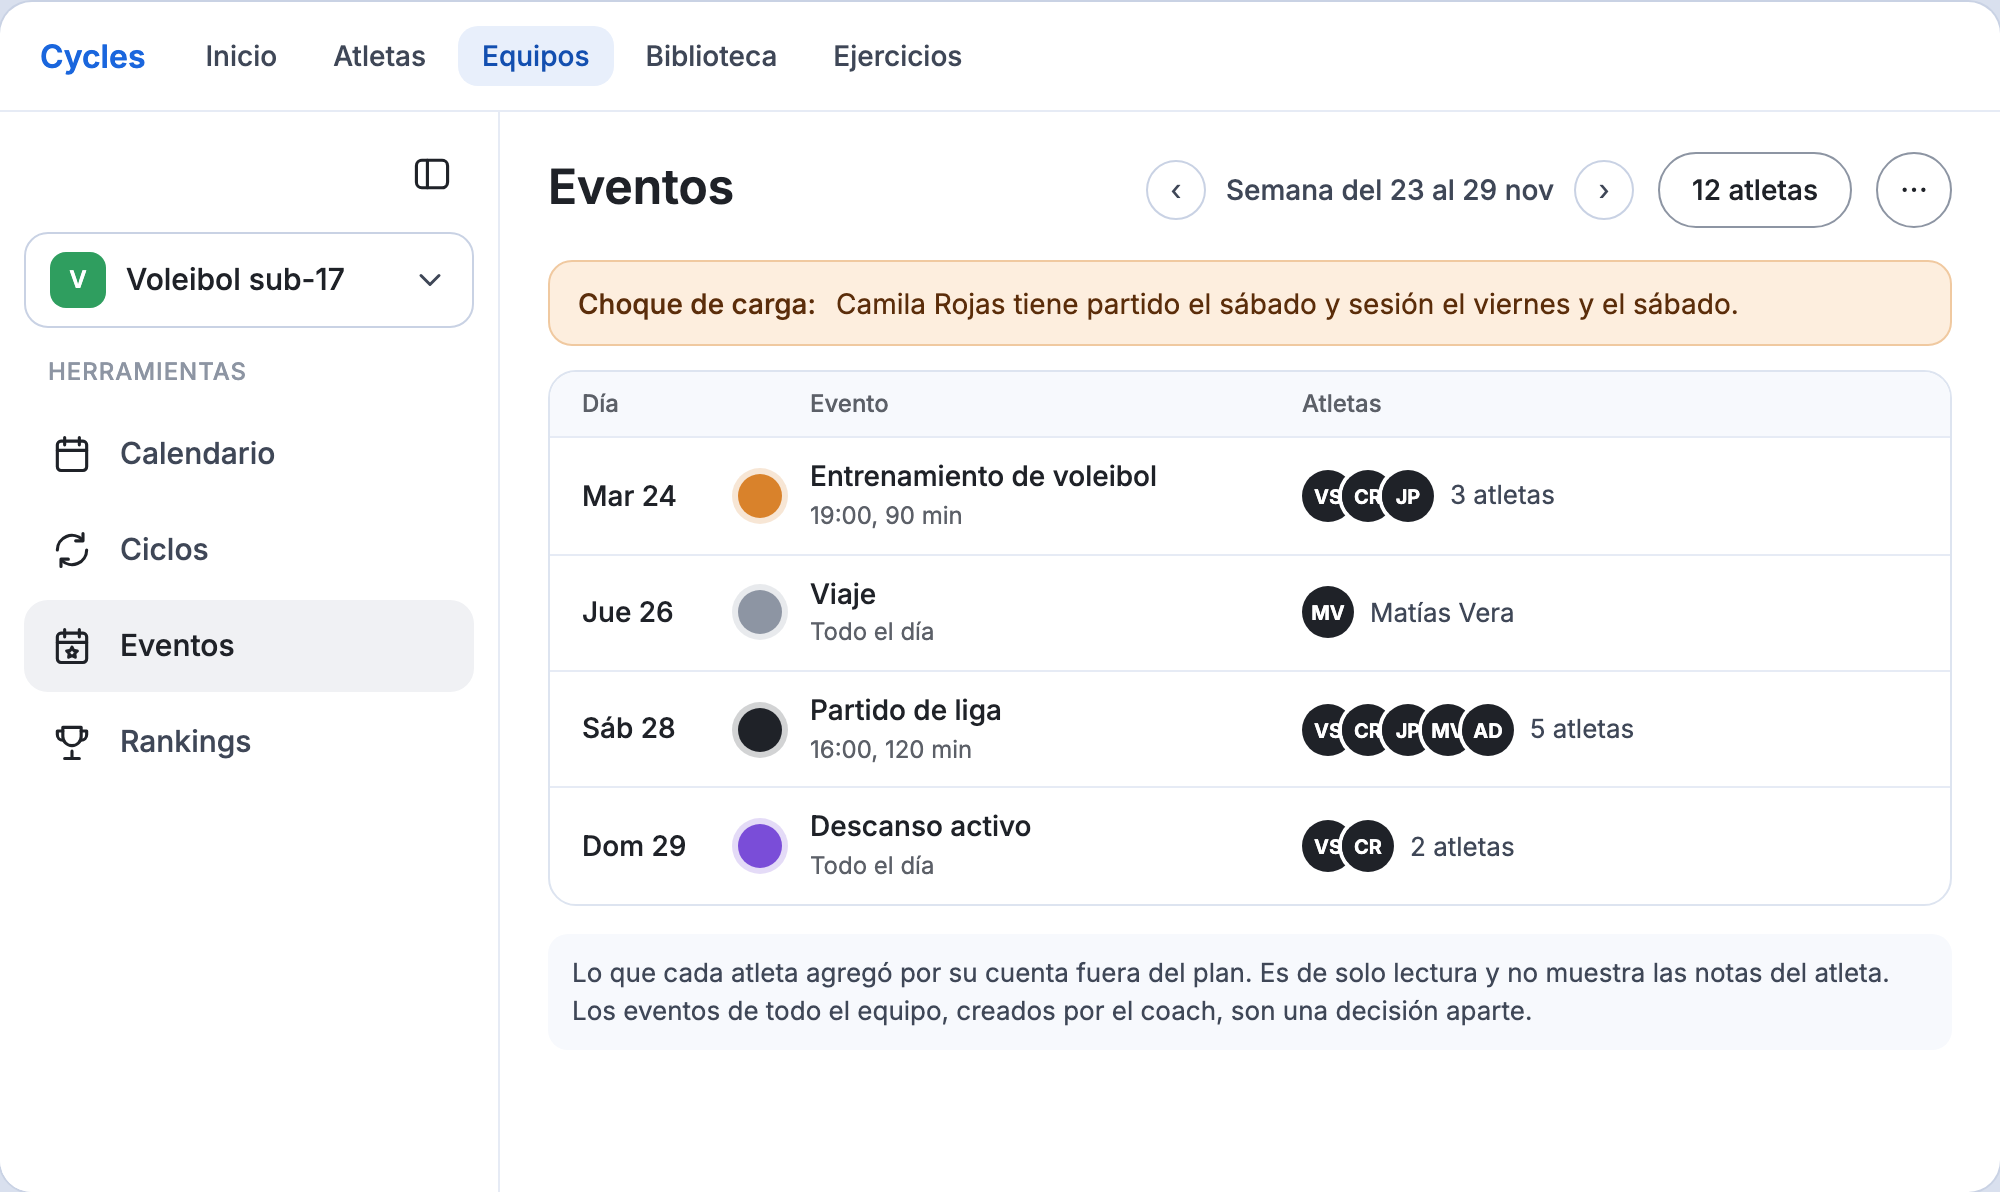
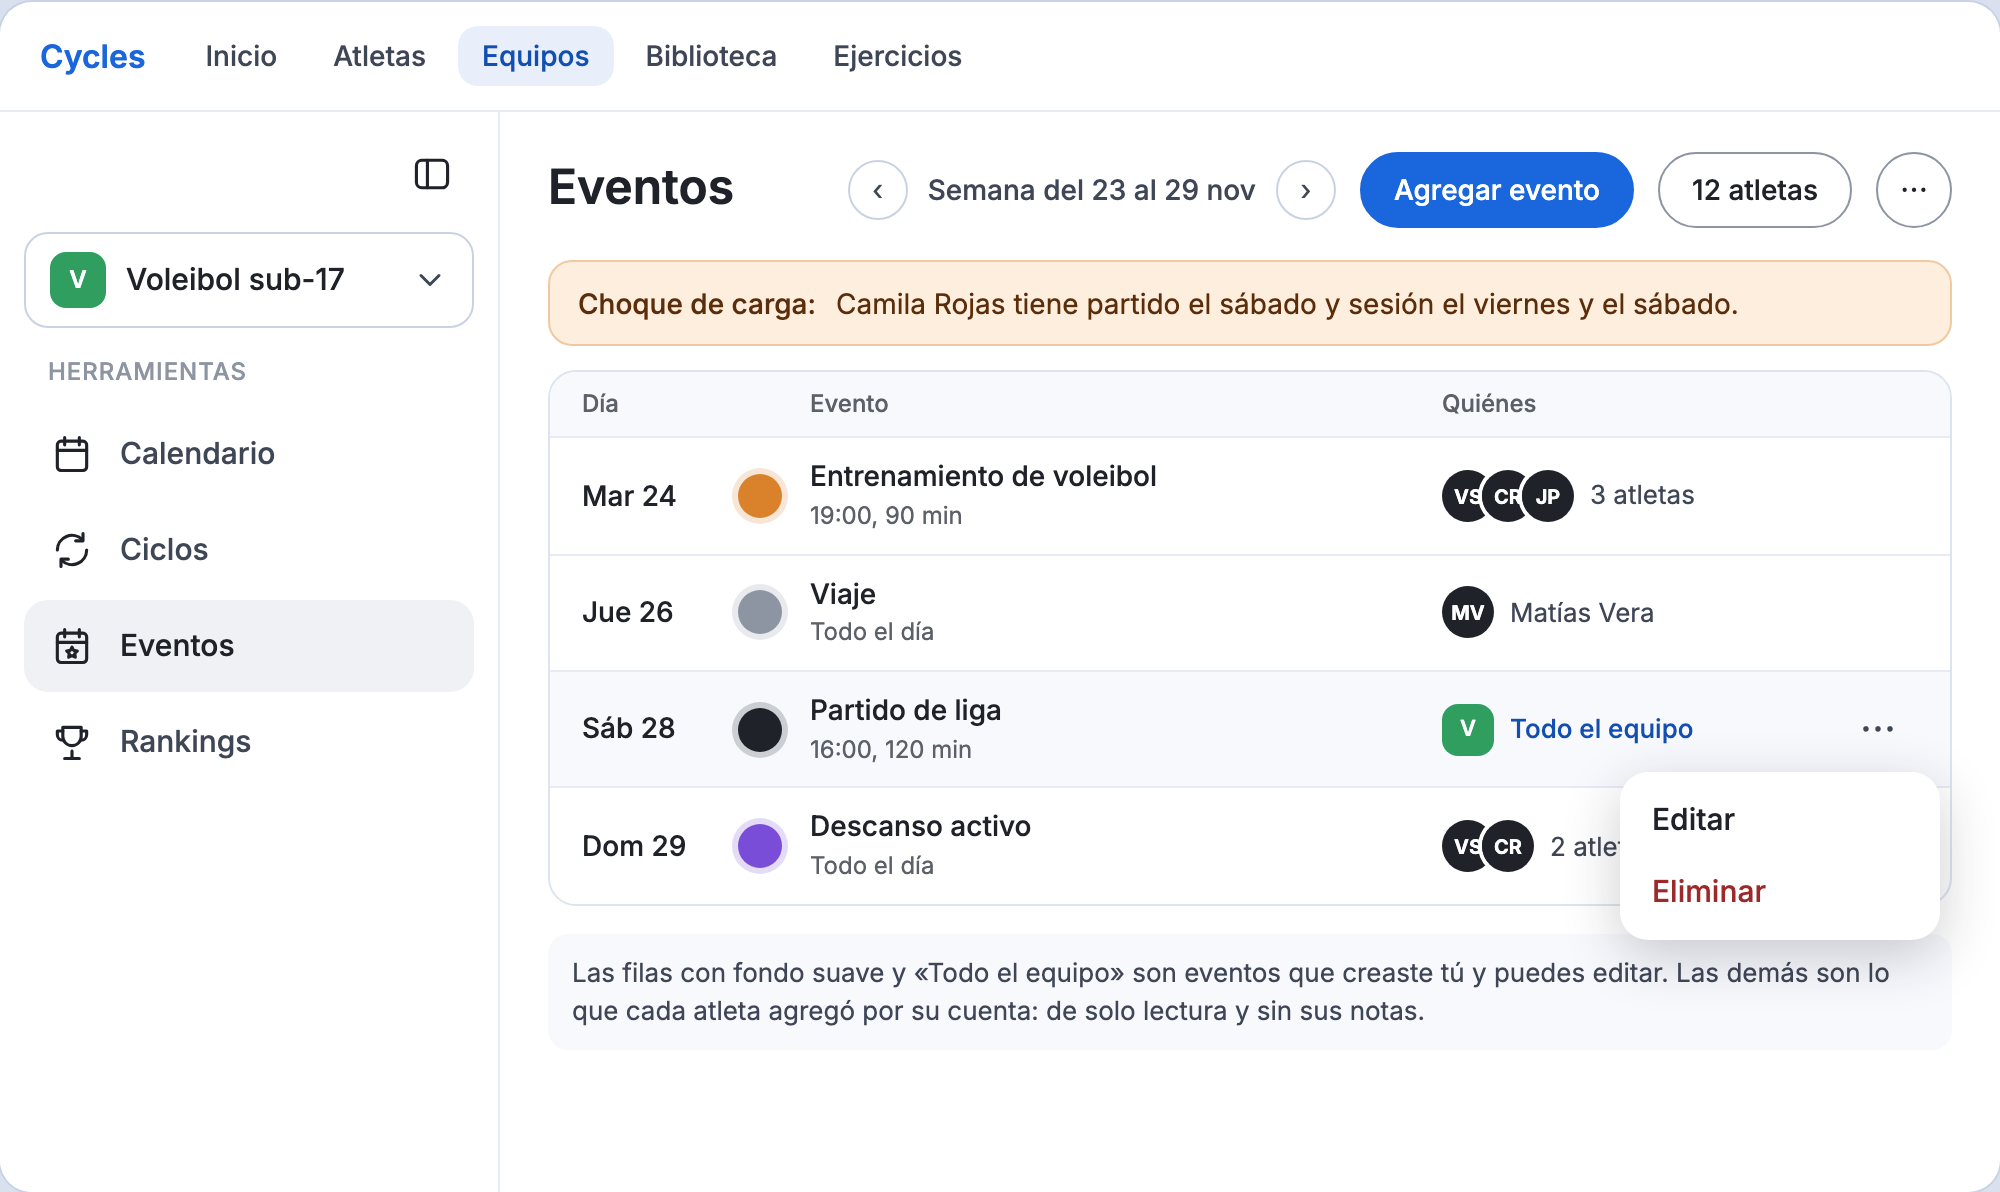
Equipos: eventos que el coach crea para todo el equipo, con modelo TeamEvent (CYC-316)

diff --git a/docs/diseno/equipos-sidebar/propuestas.html b/docs/diseno/equipos-sidebar/propuestas.html
@@ -514,18 +514,42 @@ function ciclos(){
  ${r(ATH[0],'Fuerza base','2 de 6',33)}${r(ATH[1],'Fuerza base','2 de 6',33)}${r(ATH[2],'Fuerza base','2 de 6',30)}${r(ATH[3],'Sin ciclo','—',null)}${r(ATH[4],'Invitación pendiente','—',null)}</div>
  <div class="t3note">El ciclo vigente de cada atleta del equipo. Al tocar una fila se abre el ciclo en la pizarra del atleta.</div></div>`;
 }
-function eventos(){
- const pl=(c)=>`<span style="display:inline-block;width:22px;height:22px;border-radius:50%;background:${c};box-shadow:0 0 0 3px ${c}33;flex:none"></span>`;
- const stk=(n,s=0)=>`<div style="display:flex">${ATH.slice(s,s+n).map((a,i)=>`<div style="margin-left:${i?'-6px':'0'};box-shadow:0 0 0 2px #fff;border-radius:50%">${AVb(a[0]).replace('class="av"','class="av" style="width:26px;height:26px;font-size:10px"')}</div>`).join('')}</div>`;
- const ev=(d,c,t,h,n,who,s=0)=>`<div class="t3r" style="grid-template-columns:70px 28px minmax(160px,1fr) 150px 150px"><span style="font:500 14px/1.2 Inter">${d}</span>${pl(c)}<div><div style="font:500 14px/1.2 Inter">${t}</div><div style="font:400 12px/1.3 Inter;color:#5c6068;margin-top:3px">${h}</div></div><div style="display:flex;align-items:center;gap:8px">${stk(n,s)}<span style="font:400 13px/1 Inter;color:#3f4757;white-space:nowrap">${who}</span></div><span></span></div>`;
- return `<div class="t3mn">${head('Eventos',`<div class="t3wk"><b>‹</b>Semana del 23 al 29 nov<b>›</b></div>`)}
+const EVC={part:'#1f2228',ent:'#d9822b',via:'#8d95a3',des:'#7a4dd8',otro:'#4f7fd1'};
+const pl=(c)=>`<span style="display:inline-block;width:22px;height:22px;border-radius:50%;background:${c};box-shadow:0 0 0 3px ${c}33;flex:none"></span>`;
+const stk=(n,s=0)=>`<div style="display:flex">${ATH.slice(s,s+n).map((a,i)=>`<div style="margin-left:${i?'-6px':'0'};box-shadow:0 0 0 2px #fff;border-radius:50%">${AVb(a[0]).replace('class="av"','class="av" style="width:26px;height:26px;font-size:10px"')}</div>`).join('')}</div>`;
+const EVG='grid-template-columns:70px 28px minmax(160px,1fr) 190px 40px';
+const evA=(d,c,t,h,n,who,s=0)=>`<div class="t3r" style="${EVG}"><span style="font:500 14px/1.2 Inter">${d}</span>${pl(c)}<div><div style="font:500 14px/1.2 Inter">${t}</div><div style="font:400 12px/1.3 Inter;color:#5c6068;margin-top:3px">${h}</div></div><div style="display:flex;align-items:center;gap:8px">${stk(n,s)}<span style="font:400 13px/1 Inter;color:#3f4757;white-space:nowrap">${who}</span></div><span></span></div>`;
+const evT=(d,c,t,h,menu)=>`<div class="t3r" style="${EVG};background:#f7f9fd;position:relative"><span style="font:500 14px/1.2 Inter">${d}</span>${pl(c)}<div><div style="font:500 14px/1.2 Inter">${t}</div><div style="font:400 12px/1.3 Inter;color:#5c6068;margin-top:3px">${h}</div></div><div style="display:flex;align-items:center;gap:8px"><i style="width:26px;height:26px;border-radius:8px;display:grid;place-items:center;color:#fff;font:600 11px/1 Inter;font-style:normal;background:#2f9e5f">V</i><span style="font:500 13px/1 Inter;color:#134fb0;white-space:nowrap">Todo el equipo</span></div><span style="text-align:center;font:500 18px/1 Inter;color:#3f4757">⋯</span>${menu||''}</div>`;
+const evMenu=`<div class="t3dd" style="left:auto;right:30px;top:330px;width:160px"><div class="o"><span>Editar</span></div><div class="o" style="color:#9d2a2a"><span>Eliminar</span></div></div>`;
+function eventos(menu){
+ return `<div class="t3mn">${head('Eventos',`<div class="t3wk"><b>‹</b>Semana del 23 al 29 nov<b>›</b></div><span class="t3btn pr">Agregar evento</span>`)}
  <div class="alr" style="background:#fdeede;border:1px solid #f0c9a0;color:#5b2d0a;border-radius:12px;padding:11px 14px;font:400 14px/1.4 Inter;margin-bottom:12px;display:flex;gap:10px;align-items:center"><b style="font-weight:500">Choque de carga:</b> Camila Rojas tiene partido el sábado y sesión el viernes y el sábado.</div>
- <div class="t3tb"><div class="t3r h" style="grid-template-columns:70px 28px minmax(160px,1fr) 150px 150px"><span>Día</span><span></span><span>Evento</span><span>Atletas</span><span></span></div>
- ${ev('Mar 24','#d9822b','Entrenamiento de voleibol','19:00, 90 min',3,'3 atletas')}
- ${ev('Jue 26','#8d95a3','Viaje','Todo el día',1,'Matías Vera',3)}
- ${ev('Sáb 28','#1f2228','Partido de liga','16:00, 120 min',5,'5 atletas')}
- ${ev('Dom 29','#7a4dd8','Descanso activo','Todo el día',2,'2 atletas')}</div>
- <div class="t3note">Lo que cada atleta agregó por su cuenta fuera del plan. Es de solo lectura y no muestra las notas del atleta. Los eventos de todo el equipo, creados por el coach, son una decisión aparte.</div></div>`;
+ <div class="t3tb"><div class="t3r h" style="${EVG}"><span>Día</span><span></span><span>Evento</span><span>Quiénes</span><span></span></div>
+ ${evA('Mar 24',EVC.ent,'Entrenamiento de voleibol','19:00, 90 min',3,'3 atletas')}
+ ${evA('Jue 26',EVC.via,'Viaje','Todo el día',1,'Matías Vera',3)}
+ ${evT('Sáb 28',EVC.part,'Partido de liga','16:00, 120 min','')}
+ ${evA('Dom 29',EVC.des,'Descanso activo','Todo el día',2,'2 atletas')}</div>
+ <div class="t3note">Las filas con fondo suave y «Todo el equipo» son eventos que creaste tú y puedes editar. Las demás son lo que cada atleta agregó por su cuenta: de solo lectura y sin sus notas.</div>${menu?evMenu:''}</div>`;
+}
+function eventoDlg(){
+ const tp=(t,c,on)=>`<span class="t3btn" style="${on?'background:#f0f1f4;border-color:#1f2228':''}"><span style="width:12px;height:12px;border-radius:50%;background:${c};display:inline-block"></span>${t}</span>`;
+ const fl=(l,v,w)=>`<div style="${w?`width:${w}`:'flex:1'}"><div style="font:500 13px/1 Inter;margin-bottom:6px">${l}</div><div style="height:42px;border:1px solid #c9d2e4;border-radius:10px;display:flex;align-items:center;padding:0 12px;font:400 14px/1 Inter">${v}</div></div>`;
+ const dd=['L','M','M','J','V','S','D'].map((d,i)=>`<span style="width:32px;height:32px;border-radius:50%;display:grid;place-items:center;font:500 13px/1 Inter;${i===5?'background:#1a66dd;color:#fff':'border:1px solid #c9d2e4'}">${d}</span>`).join('');
+ const over=`<div class="t3scrim"><div class="t3dlg" style="width:560px"><h3>Nuevo evento para Voleibol sub-17</h3>
+ <div style="font:500 13px/1 Inter;margin-bottom:8px">Tipo</div><div style="display:flex;gap:8px;flex-wrap:wrap;margin-bottom:12px">${tp('Partido o competencia',EVC.part,1)}${tp('Entrenamiento',EVC.ent)}${tp('Viaje',EVC.via)}${tp('Descanso activo',EVC.des)}${tp('Otro',EVC.otro)}</div>
+ <div style="margin-bottom:12px">${fl('Nombre','Partido de liga','100%')}</div>
+ <div style="display:flex;gap:12px;margin-bottom:12px">${fl('Fecha','Sáb 28 nov')}${fl('Hora','16:00')}${fl('Duración','120 min')}</div>
+ <div style="display:flex;align-items:center;gap:10px;margin-bottom:12px"><span style="width:20px;height:20px;border-radius:6px;border:2px solid #8d95a3"></span><span style="font:400 14px/1 Inter">Todo el día</span></div>
+ <div style="font:500 13px/1 Inter;margin-bottom:8px">Se repite</div><div style="display:flex;gap:6px;margin-bottom:14px">${dd}</div>
+ <div>${fl('Nota para los atletas (opcional)','Llegar 45 min antes','100%')}</div>
+ <div style="display:flex;gap:10px;margin-top:16px"><span class="t3btn pr">Guardar evento</span><span class="t3btn">Cancelar</span></div></div></div>`;
+ return frame(side('Eventos'),eventos(false),250,over);
+}
+function atletaEv(){
+ return `<div class="web nar" style="min-height:420px"><div class="wt" style="font-weight:600">Calendario · semana del 23 al 29 nov</div>
+ <div class="tbl" style="margin-bottom:10px"><div style="padding:12px 14px;border-top:0"><div style="font:500 12px/1 Inter;color:#5c6068;margin-bottom:8px">Sáb 28</div>
+ <div style="display:flex;align-items:center;gap:12px;border-radius:12px;background:#f3f5fa;padding:12px">${pl(EVC.part)}<div style="flex:1"><div style="font:500 15px/1.2 Inter">Partido de liga</div><div style="font:400 13px/1.3 Inter;color:#5c6068;margin-top:3px">16:00, 120 min</div><div style="font:400 13px/1.3 Inter;color:#3f4757;margin-top:6px">Llegar 45 min antes</div></div><span class="chip gr">Voleibol sub-17</span></div></div></div>
+ <div class="wnote">El atleta ve los eventos de su equipo en su calendario, con el nombre del equipo, y no puede editarlos. Si lo quitan del equipo, deja de verlos.</div></div>`;
 }
 function rankings(){
  const r=(n,a,p)=>`<div class="t3r t3rk"><span class="n">${n}</span><div class="nm">${AVb(a[0])}${a[1]}</div><div class="pg"><i style="width:${p}%"></i></div><span class="pc">${p} %</span></div>`;
@@ -539,7 +563,8 @@ function f1(){return frame(side('Calendario'),calendario());}
 function f2(){return frame(side('Calendario',{col:true}),calendario(),72);}
 function f3(){return frame(side('Calendario',{dd:ddOpen}),calendario());}
 function f4(){return frame(side('Ciclos'),ciclos());}
-function f9(){return frame(side('Eventos'),eventos());}
+function f9(){return frame(side('Eventos'),eventos(true));}
+function f10(){return eventoDlg();}
 function f5(){return frame(side('Rankings'),rankings());}
 function f6(){
  const m=(a,c)=>`<div class="t3mem">${AVb(a[0])}<span>${a[1]}</span><span class="chip ${c[1]}">${c[0]}</span><u>Quitar</u></div>`;
@@ -561,9 +586,10 @@ const out=document.getElementById('out');
 const add=(id,label,items)=>out.insertAdjacentHTML('beforeend',`<div class="lab">${label}</div><div class="row" id="${id}">${items.map(([c,h])=>`<div class="fr">${h}<div class="cap">${c}</div></div>`).join('')}</div>`);
 add('r1','1 · Sidebar expandido y contraído',[['Expandido: selector de equipo arriba y las herramientas debajo',f1()],['Contraído: la inicial del equipo y los íconos de las herramientas',f2()]]);
 add('r2','2 · Selector de equipo',[['Selector abierto: cambia de equipo o crea uno',f3()],['Sin equipos',f7()]]);
-add('r3','3 · Herramientas (Calendario es la vista de arriba)',[['Ciclos: el ciclo vigente de cada atleta',f4()],['Eventos: lo que los atletas hacen fuera del plan, en la semana',f9()],['Rankings: sesiones completadas por atleta',f5()]]);
+add('r3','3 · Herramientas (Calendario es la vista de arriba)',[['Ciclos: el ciclo vigente de cada atleta',f4()],['Eventos: los del equipo (los creas tú) y los que agregan los atletas; el menú de un evento del equipo',f9()],['Crear un evento para todo el equipo',f10()],['Rankings: sesiones completadas por atleta',f5()]]);
 add('r4','4 · Atletas del equipo',[['Se abre desde el botón «12 atletas»: agregar y quitar',f6()]]);
 add('r5','5 · Pantalla angosta',[['Selector arriba y las herramientas como pestañas',f8(false)],['Selector abierto',f8(true)]]);
+add('r6','6 · Lo que ve el atleta',[['Su calendario muestra el evento del equipo, sin poder editarlo',atletaEv()]]);
 
 </script>
 </body>

diff --git a/docs/diseno/equipos-sidebar/README.md b/docs/diseno/equipos-sidebar/README.md
@@ -28,7 +28,10 @@ El modelo de datos (`Team` y `TeamMember`) y los cuadros de crear, agregar, reno
 3. **Contraído**: columna angosta con la inicial del equipo y los cuatro íconos; el nombre se ve al pasar el cursor.
 4. **Calendario** (vista inicial): la semana de cada atleta del equipo, con una marca por día (hecha, omitida, pendiente, hoy), cambio de semana y «Agregar rutina».
 5. **Ciclos**: el ciclo vigente de cada atleta, la semana en que va y su avance; «Agregar ciclo».
-6. **Eventos** (CYC-237): lo que cada atleta del equipo agregó por su cuenta fuera del plan (partido, viaje, descanso activo, entrenamiento paralelo), agrupado por día, con la perla de color de su tipo, la hora y quiénes participan. Navega por semana y es de solo lectura; no muestra las notas del atleta (R7). Arriba, el aviso «Choque de carga» cuando un atleta tiene un evento exigente junto a sesiones.
+6. **Eventos**: dos tipos de fila en la misma lista, por día y semana. **Los del equipo** los crea el coach (fondo suave, «Todo el equipo» y menú ⋯ con Editar y Eliminar). **Los de los atletas** son lo que cada uno agregó por su cuenta fuera del plan (CYC-237): solo lectura y sin sus notas (R7). Cada uno con la perla de color de su tipo, la hora y quiénes participan. Arriba, el aviso «Choque de carga».
+   - **Agregar evento** abre «Nuevo evento para <equipo>»: tipo (partido o competencia, entrenamiento, viaje, descanso activo, otro), nombre, fecha, hora, duración, todo el día, días en que se repite y una nota para los atletas.
+   - **Lo ve el atleta** en su calendario, con el nombre del equipo, sin poder editarlo; si lo quitan del equipo, deja de verlo. El evento no se copia: se lee por la pertenencia al equipo.
+   - **Editar o eliminar** una serie cambia todas sus repeticiones.
 7. **Rankings**: atletas ordenados por el porcentaje de sesiones completadas sobre las asignadas, con selector de período (últimas 4 semanas o este ciclo).
 8. **Atletas del equipo**: el botón «12 atletas» abre un cuadro con la lista, «Quitar» y «Agregar atletas». El menú ⋯ trae Renombrar y Eliminar equipo.
 9. **Sin equipos**: el selector dice «Sin equipos», las herramientas aparecen apagadas y el centro invita a crear el primero.
@@ -38,14 +41,75 @@ El modelo de datos (`Team` y `TeamMember`) y los cuadros de crear, agregar, reno
 
 - Rutas: `/equipos` abre el primer equipo en Calendario; `/equipos/:id/calendario`, `/ciclos`, `/eventos` y `/rankings` para cada herramienta.
 - Afecta al PR #269 (CYC-310): `TeamsPage` y `TeamDetailPage` se reemplazan por un contenedor con el sidebar y las cuatro vistas.
-- Eventos reutiliza `AthleteEvent` (CYC-251/253) agrupado por los atletas del equipo; sin cambios de modelo.
+- Eventos de atletas: reutiliza `AthleteEvent` (CYC-251/253) agrupado por los atletas del equipo, sin cambios.
+- **Eventos del equipo: modelo nuevo** (tabla `TeamEvent`, ver el diagrama). La migración es aditiva y va en tarjeta aparte, con respaldo previo y el «apruebo» de la usuaria.
+- API: `GET/POST /teams/:id/events`, `PATCH/DELETE /teams/:id/events/:eventId` (coach dueño) y los eventos del equipo dentro del calendario del atleta (lectura).
 - Calendario reutiliza el cálculo de la semana de Atletas; Ciclos, el ciclo vigente que ya trae el detalle del equipo; Rankings usa el mismo dato de cumplimiento de la tarjeta del atleta (últimas 4 semanas), calculado por equipo.
-- Sin cambios de modelo. Rankings puede necesitar un endpoint de lectura por equipo, a definir con Desarrollo general.
+- Rankings puede necesitar un endpoint de lectura por equipo, a definir con Desarrollo general.
+
+## Cambio de modelo (diagrama)
+
+```mermaid
+erDiagram
+    Team {
+        string id
+        string coachId
+        string name
+    }
+    TeamMember {
+        string id
+        string teamId
+        string athleteId
+    }
+    TeamEvent {
+        string id "NUEVA TABLA"
+        string teamId "el equipo"
+        string createdById "el coach"
+        enum type "partido, entrenamiento, viaje, descanso, otro"
+        string title
+        date date "dia de inicio"
+        string startTime "HH:mm, nulo si todo el dia"
+        int durationMin
+        boolean allDay
+        string notes "la ven los atletas"
+        int_array repeatDays "0 lunes a 6 domingo"
+        date repeatUntil
+        datetime createdAt
+        datetime updatedAt
+    }
+    AthleteEvent {
+        string id "existente"
+        string athleteId
+        enum type
+        string title
+        string notes "privada: el coach no la ve"
+    }
+    User {
+        string id
+        string name
+    }
+    Team ||--o{ TeamMember : "tiene"
+    User ||--o{ TeamMember : "atleta"
+    Team ||--o{ TeamEvent : "tiene"
+    User ||--o{ TeamEvent : "coach que lo crea"
+    User ||--o{ AthleteEvent : "atleta"
+```
+
+- `TeamEvent` es de solo escritura del coach dueño del equipo. El atleta lo lee por su pertenencia a `TeamMember`; no se copia a `AthleteEvent`.
+- Al borrar un equipo se borran sus eventos. Al quitar a un atleta del equipo, deja de ver los eventos.
+- La nota la ven todos los atletas del equipo: el formulario avisa que no debe llevar datos de salud (R7).
+- Reutiliza el tipo de evento de `AthleteEvent` (partido, entrenamiento, viaje, descanso activo, otro).
+
+## Fichas de novedad (popup)
+
+- `coach-team-events@1`, 1 slide, solo coach: «Crea eventos para todo el equipo» · «Agrega un partido o un viaje una vez y cada atleta lo ve en su calendario.»
+- `athlete-team-events@1`, 1 slide, solo atleta: «Eventos de tu equipo» · «Tu coach agrega partidos y viajes del equipo, y los ves en tu calendario.»
 
 ## Preguntas abiertas
 
 1. ¿Calendario, Ciclos, Eventos y Rankings muestran lo descrito arriba? Es mi interpretación.
 2. ¿Agregar y quitar atletas, renombrar y eliminar salen del botón «12 atletas» y del menú ⋯? Propongo que sí.
 3. ¿El ranking es solo por sesiones completadas, o hay otro criterio? Propongo empezar solo con ese.
-4. ¿Eventos solo muestra lo que agregan los atletas, o el coach también puede crear un evento para todo el equipo (por ejemplo, un partido)? Lo segundo es un modelo nuevo; propongo dejarlo para después.
-5. ¿El sidebar recuerda si quedó contraído o expandido? Propongo que sí.
+4. ¿Los atletas reciben un aviso cuando el coach crea un evento del equipo? Propongo que no al inicio: lo ven en su calendario.
+5. ¿Editar o eliminar un evento repetido cambia toda la serie? Propongo que sí, y dejar «solo este día» para después.
+6. ¿El sidebar recuerda si quedó contraído o expandido? Propongo que sí.
